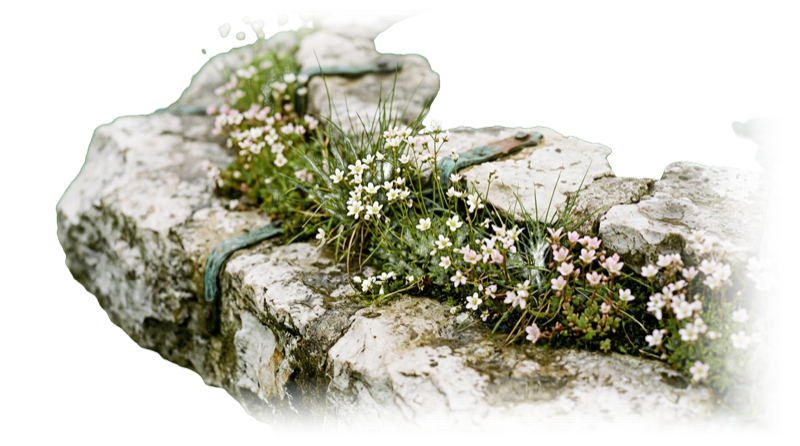
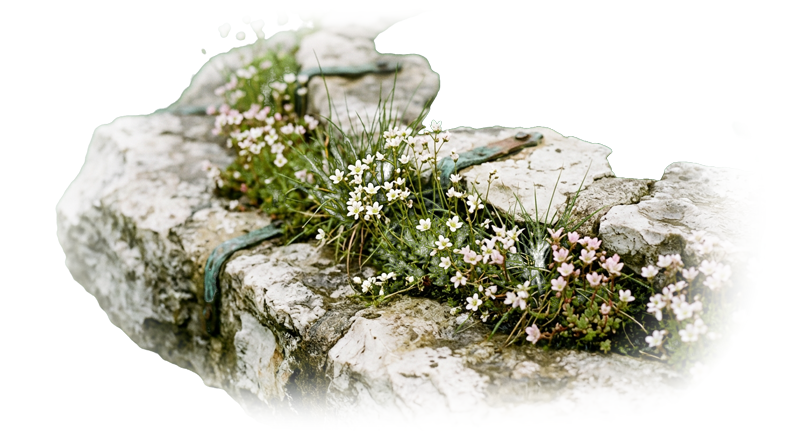
Option B: islands drawn over the floor, base fade, contact shadow

diff --git a/b/index.html b/b/index.html
@@ -481,7 +481,9 @@ ScrollCraft.mount(document.body);
 
   // flowers close to the walk, low, facing the camera
   [[0.06, -1, 1.7], [0.31, 1, 1.8], [0.55, -1, 1.7], [0.79, 1, 1.9], [0.97, -1, 1.8]].forEach(function (f) {
-    cutout(TX.fl, 1.79, 1.1, sideOf(f[0], f[1], f[2]), { reflect: false, lift: -0.35 });
+    var fp = sideOf(f[0], f[1], f[2]);
+    ground(fp, 2.3, 1.1, 0.55);
+    cutout(TX.fl, 1.79, 1.1, fp, { reflect: false, lift: -0.1, soft: true, order: 8 });
   });
 
   // fog banks: soft planes that drift, giving the fog volume between the pillars
